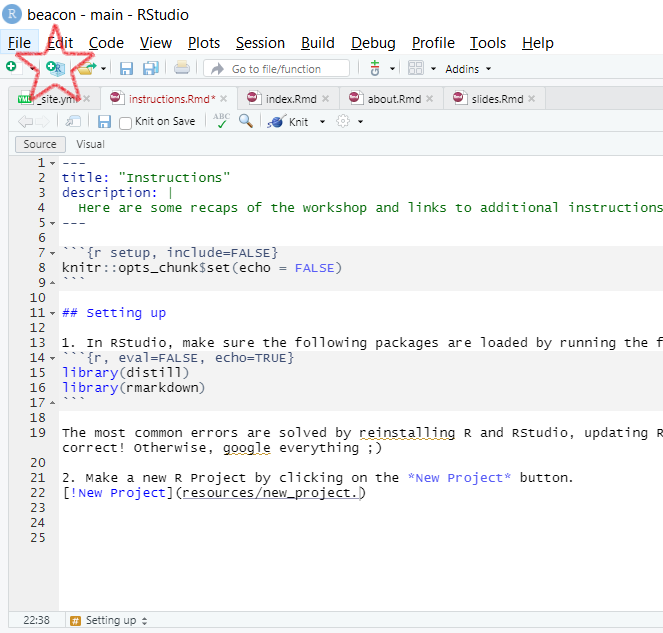
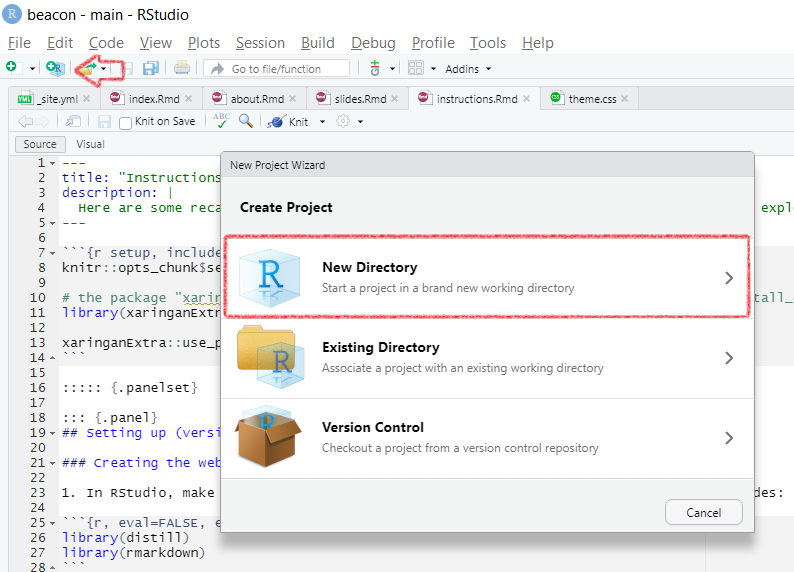
add setting up 2

Changed region(s): [[0.0, 0.0, 1.0, 1.0], [0.7843, 0.743, 0.8748, 0.7727]]

diff --git a/docs/instructions.html b/docs/instructions.html
@@ -110,7 +110,7 @@ code span.wa { color: #5e5e5e; font-style: italic; } /* Warning */
   <!--radix_placeholder_rmarkdown_metadata-->
 
   <script type="text/json" id="radix-rmarkdown-metadata">
-  {"type":"list","attributes":{"names":{"type":"character","attributes":{},"value":["title","description"]}},"value":[{"type":"character","attributes":{},"value":["Instructions"]},{"type":"character","attributes":{},"value":["Here are some recaps of the workshop and links to additional instructions for you to explore!"]}]}
+  {"type":"list","attributes":{"names":{"type":"character","attributes":{},"value":["title","description","output"]}},"value":[{"type":"character","attributes":{},"value":["Instructions"]},{"type":"character","attributes":{},"value":["Here are some recaps of the workshop and links to additional instructions for you to explore!\n"]},{"type":"list","attributes":{"names":{"type":"character","attributes":{},"value":["distill::distill_article"]}},"value":[{"type":"list","attributes":{"names":{"type":"character","attributes":{},"value":["md_extensions"]}},"value":[{"type":"character","attributes":{},"value":["+emoji"]}]}]}]}
   </script>
   <!--/radix_placeholder_rmarkdown_metadata-->
   <!--radix_placeholder_navigation_in_header-->
@@ -2185,8 +2185,8 @@ code span.wa { color: #5e5e5e; font-style: italic; } /* Warning */
 
 <div class="d-article">
 <div class="panelset">
-<section id="setting-up-version-1" class="panel">
-<h2>Setting up (version 1)</h2>
+<div class="panel">
+<p><span class="panel-name">Setting up (version 1)</span></p>
 <h3 id="creating-the-website-template-on-your-computer">Creating the website template on your computer</h3>
 <ol type="1">
 <li>In RStudio, make sure the following packages are loaded by running the following codes:</li>
@@ -2198,11 +2198,11 @@ code span.wa { color: #5e5e5e; font-style: italic; } /* Warning */
 </div>
 </div>
 <aside>
-The most common errors are solved by reinstalling R and RStudio, or updating R.
+The most common errors are solved by reinstalling R and RStudio, or updating R. Maybe you need to install the newest version of the packages! Otherwise, google <span class="emoji" data-emoji="smile">😄</span>
 </aside>
 <p> <br />
 2. Make a new R Project by clicking on the <em>New Project</em> button.
-<img src="resources/new_project.png" width="700" alt="New Project" /></p>
+<img src="resources/new_project.png" width="700" alt="New Directory" /></p>
 <ol start="3" type="1">
 <li><p>Click on <em>New Directory</em>, than select <em>Distill Website</em> from the list.</p></li>
 <li><p>Give your Website a directory name (a.k.a. name the folder), the title of your website (can be changed later) and check the box to <em>configure for Github Pages</em>! Now you have created a basic template.</p></li>
@@ -2220,13 +2220,26 @@ The most common errors are solved by reinstalling R and RStudio, or updating R.
 <aside>
 <p>Make sure you don’t copy the folder but only the contents, also the hidden ones!</p>
 </aside></li>
-<li><p>In your GitHub Desktop, <a href="https://docs.github.com/en/desktop/contributing-and-collaborating-using-github-desktop/making-changes-in-a-branch/committing-and-reviewing-changes-to-your-project#write-a-commit-message-and-push-your-changes"><em>commit</em> and <em>push!</em></a> Congratulations, you have made your website!</p></li>
+<li><p>In your GitHub Desktop, <a href="https://docs.github.com/en/desktop/contributing-and-collaborating-using-github-desktop/making-changes-in-a-branch/committing-and-reviewing-changes-to-your-project#write-a-commit-message-and-push-your-changes"><em>commit</em> and <em>push</em></a>!
+Congratulations, you have made your website! <span class="emoji" data-emoji="sparkles">✨</span></p></li>
 </ol>
-</section>
-<section id="setting-up-version-2" class="panel">
-<h2>Setting up (version 2)</h2>
-<p>TBD</p>
-</section>
+</div>
+<div class="panel">
+<p><span class="panel-name">Setting up (version elegant)</span></p>
+<p>We have found a more <em>elegant</em> version of creating a website in GitHub without having to move your website template into the repo. This way will allow you to create an R Project <em>directly</em> inside your repository.</p>
+<ol type="1">
+<li><p>Create a new repository in GitHub, configure it for GitHub Pages in the setting and clone it onto your laptop.</p>
+<aside>
+<p>The instructions are in <strong>Setting up (version 1)</strong>.</p>
+</aside></li>
+<li><p>Open RStudio and create a new project, however, this time click the option <strong>Existing Directory</strong>!<br />
+<img src="resources/existing_project.png" width="700" alt="Existing Directory" />
+Make sure to set your Project Working Directory to <strong>the cloned repository folder</strong> on your laptop!</p></li>
+<li><p>Now you will have a blank R Project with no Distill Website Template, but don’t fret! Just type the following line into the console, then enter your website title!</p></li>
+<li><p>Congratulations! You have made your website. <span class="emoji" data-emoji="sparkles">✨</span><br />
+</p></li>
+</ol>
+</div>
 </div>
 <div class="sourceCode" id="cb1"><pre class="sourceCode r distill-force-highlighting-css"><code class="sourceCode r"></code></pre></div>
 <!--radix_placeholder_article_footer-->
